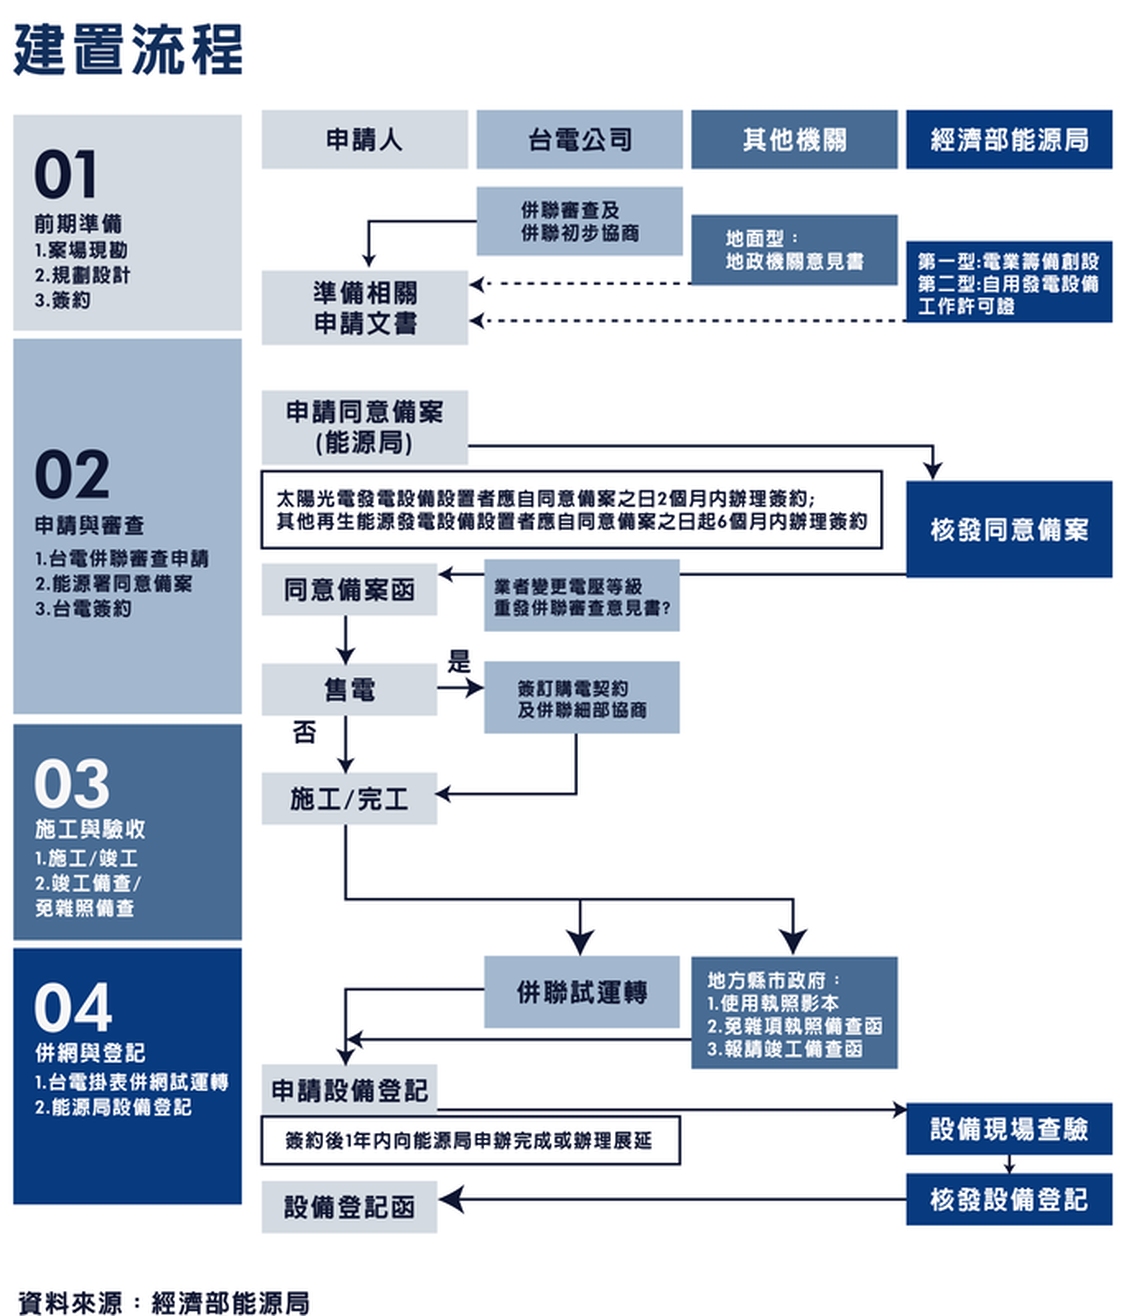
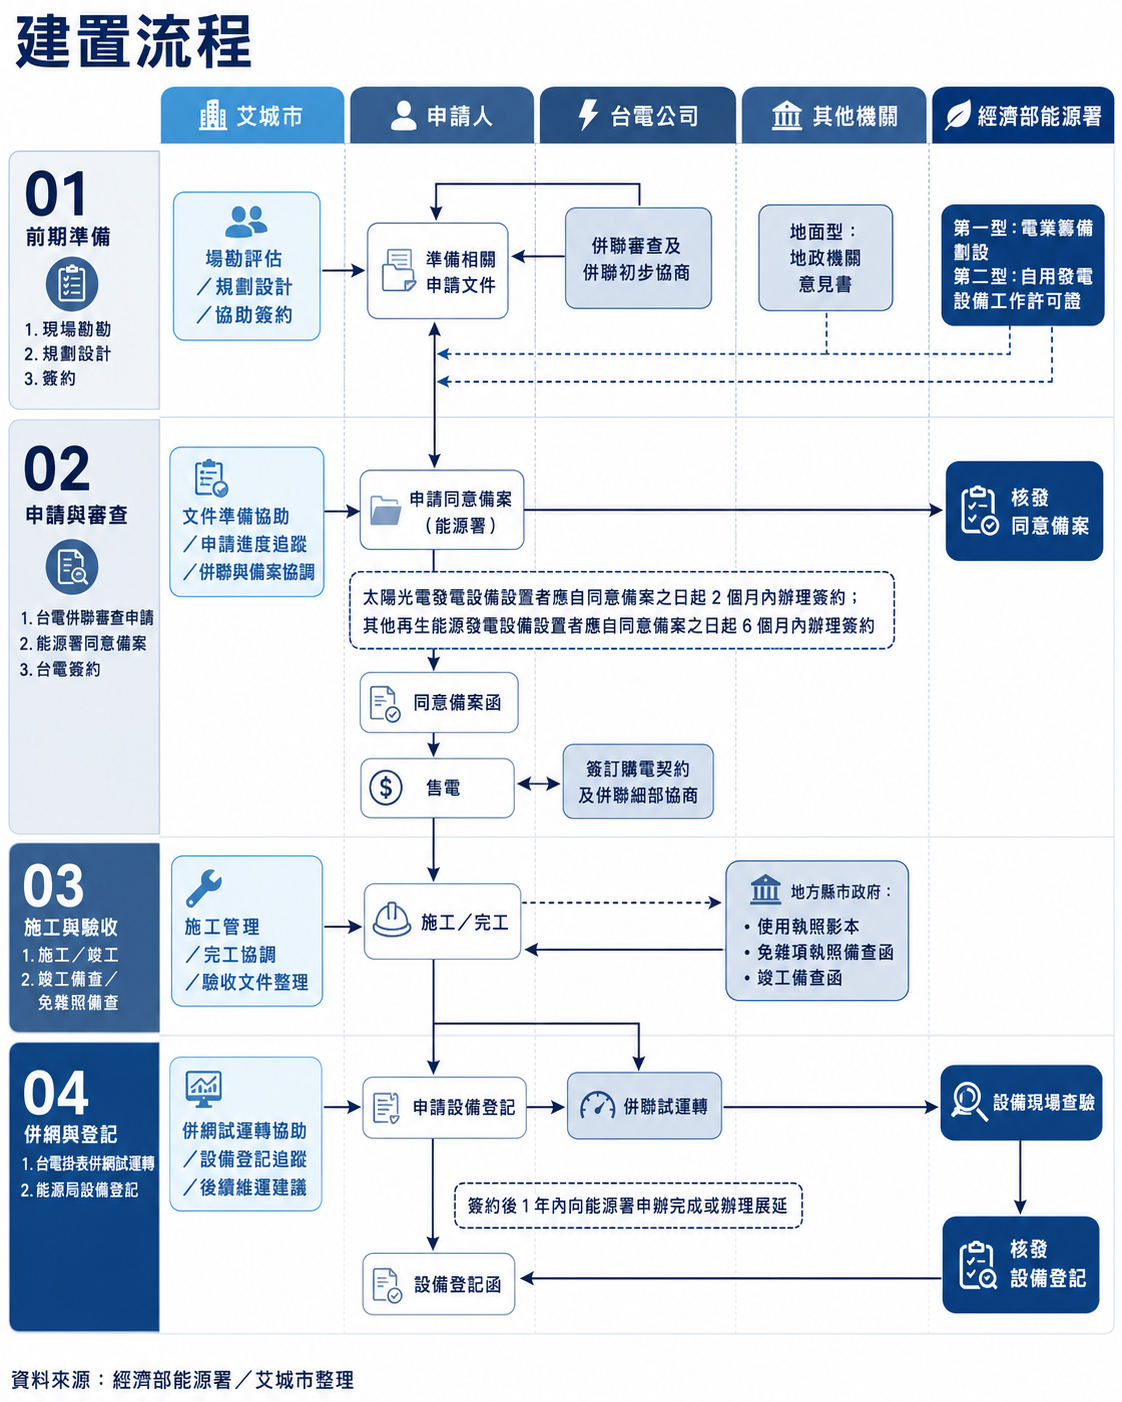
修正0828

diff --git a/src/content.config.ts b/src/content.config.ts
@@ -59,7 +59,7 @@ const partnersCollection = defineCollection({
       name: z.string(),
       title: z.string().optional(), // 職稱/頭銜（選填）
       logo: z.string(),
-      bio: z.string().default(''),
+      summary: z.array(z.string()).default([]), // 改為陣列型別
       weight: z.number().default(0),
       draft: z.boolean().default(false),
     }),
